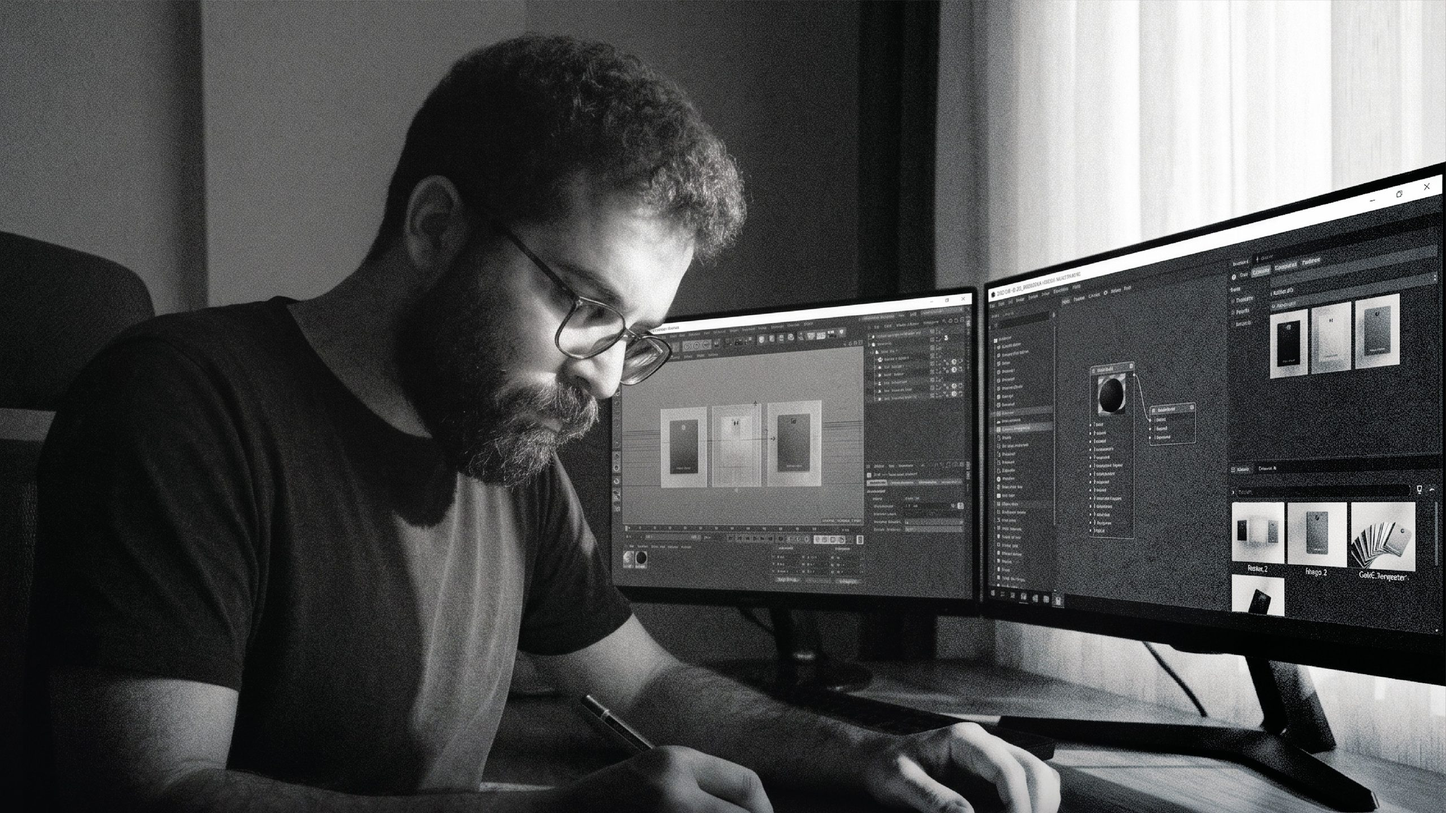
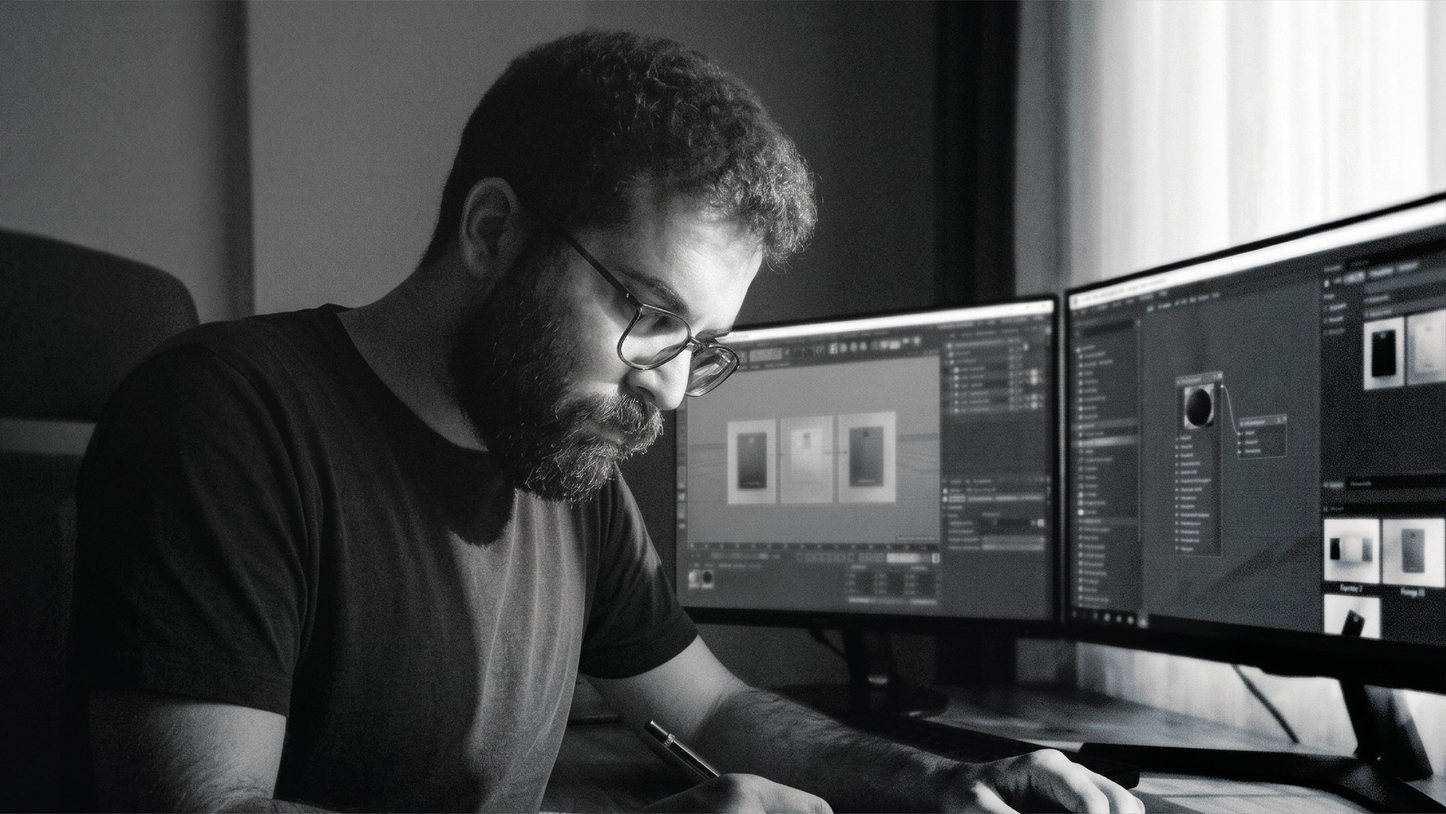
Contact: new image + curtain-lift reveal from behind the previous section
- Replace contact-bg with the new uploaded photo (resized 2560px / 514KB)
- Desktop: the contact section is pulled up one screen UNDER #echoField
  (z-index:3, opaque) and held by a sticky pin, so as the previous (services)
  section scrolls up and away, the contact — photo + copy — is revealed from
  behind it (200vh runway: 100vh reveal + 100vh hold)
- Touch: CSS sticky + z-layering are unreliable on mobile here, so the reveal
  is neutralised to a plain full-screen contact section

Claude-Session: https://claude.ai/code/session_01SieK6Xsa6riibEPLGagZdD

diff --git a/index.html b/index.html
@@ -424,7 +424,7 @@
     /* The About "hero" is an immersive full-screen moment: #echoField is a tall
        runway, #aboutStage pins (sticky) and fills the screen, and the scroll drives
        the ball's entrance (see the WebGL module). */
-    #echoField{position:relative;background:#0d1fd4}   /* height = content; the sticky scene stays pinned behind the whole field */
+    #echoField{position:relative;background:#0d1fd4;z-index:3}   /* height = content; the sticky scene stays pinned behind the whole field. z-index:3 so it occludes the contact section, which is pulled up underneath it → the contact reveals FROM BEHIND this section as it scrolls away. */
     #aboutStage{position:sticky;top:0;height:100vh;overflow:hidden}
     /* Runway: the hero scene stays pinned and fully performs (descend → settle →
        pulse → taglines) across this scroll before the Services card rises over it. */
@@ -571,7 +571,11 @@
     .service-desc{font-size:16px;color:rgba(255,255,255,0.6);line-height:1.8}
 
     /* CONTACT */
-    #contact-wrapper{position:relative;min-height:100vh;background:#07080f}
+    /* Curtain-lift reveal: pulled up one screen UNDER #echoField (z-index:3, opaque)
+       so it's hidden behind the previous section, then a sticky pin holds it in place
+       while that section scrolls up and off — the contact (photo + copy) is revealed
+       FROM BEHIND it. 200vh = 100vh reveal runway + 100vh to hold, then it scrolls on. */
+    #contact-wrapper{position:relative;min-height:200vh;background:#07080f;z-index:1;margin-top:-100vh}
     .contact-sticky{position:sticky;top:0;height:100vh;overflow:hidden;display:flex;align-items:center;justify-content:center}
     #contactGlowDot{position:absolute;width:32px;height:32px;background:#f5d94e;border-radius:50%;top:50%;left:50%;transform:translate(-50%,-50%);box-shadow:0 0 60px rgba(245,217,78,0.9),0 0 120px rgba(245,217,78,0.4),0 0 200px rgba(245,217,78,0.2);animation:contactPulse 2s var(--ease) infinite;z-index:1;pointer-events:none;will-change:transform}
     @keyframes contactPulse{
@@ -656,8 +660,10 @@
       .svc-media{min-height:clamp(220px,40vh,360px);order:2}
       .svc-list{order:1}
 
-      /* Contact */
-      #contact-wrapper{min-height:100vh}
+      /* Contact — the curtain reveal relies on CSS position:sticky, which doesn't pin
+         reliably on mobile here (body overflow). Disable the overlap/reveal on touch:
+         plain full-screen contact section. */
+      #contact-wrapper{margin-top:0;min-height:100vh}
       .contact-lead{font-size:clamp(42px,12.5vw,76px)}
       .contact-icons2{gap:16px}
 
@@ -1540,6 +1546,11 @@
        screen, and services becomes a stacked touch layout (its desktop layout is
        hover-driven and absolutely positioned — unusable on touch). */
     @media (pointer:coarse){
+      /* Contact curtain reveal needs CSS sticky + z-layering, both unreliable on touch →
+         fully neutralise it back to a plain full-screen section (also covers large touch
+         devices the max-width:900 rule doesn't). */
+      #echoField{z-index:auto}
+      #contact-wrapper{margin-top:0 !important;min-height:100vh !important;z-index:auto}
       /* — Reel hero: full-viewport video with the stacked titles over it — */
       body.mobile-hero #hero{height:100vh !important;height:100svh !important;min-height:0 !important;overflow:hidden !important;background:#0b0f2e !important;padding:0 !important}
       body.mobile-hero #reelPin{position:absolute;inset:0;height:100%}
